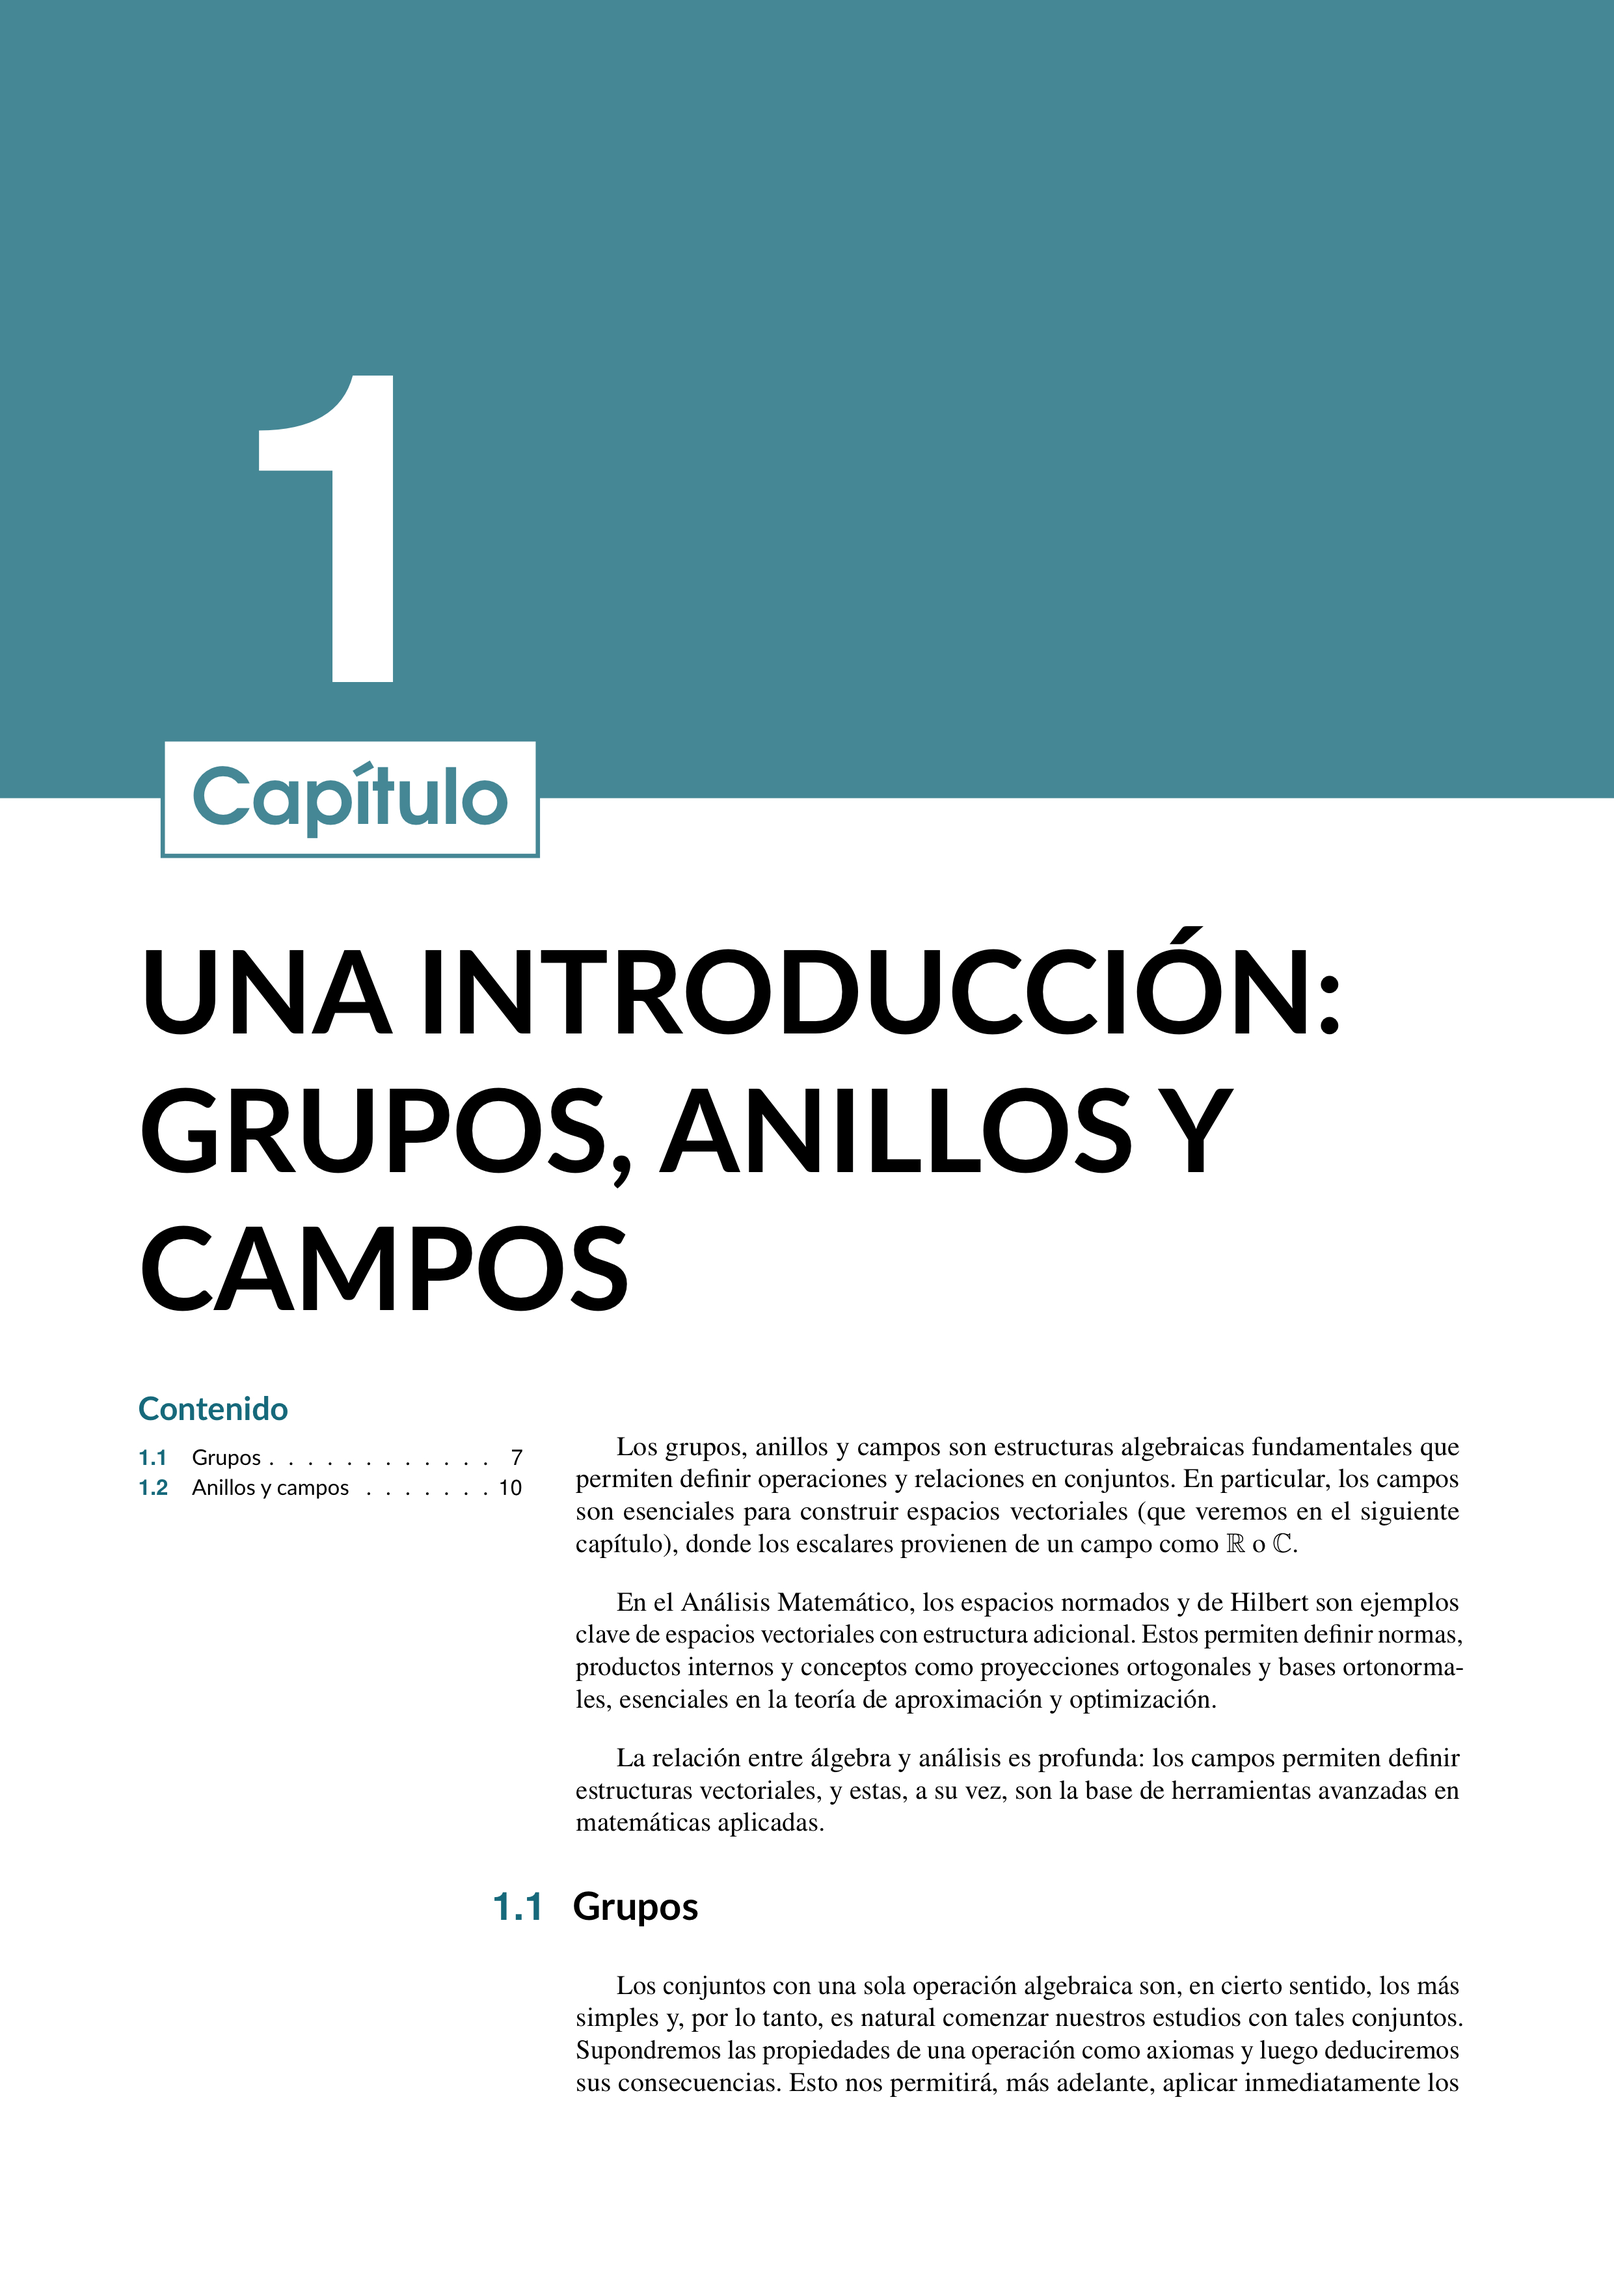
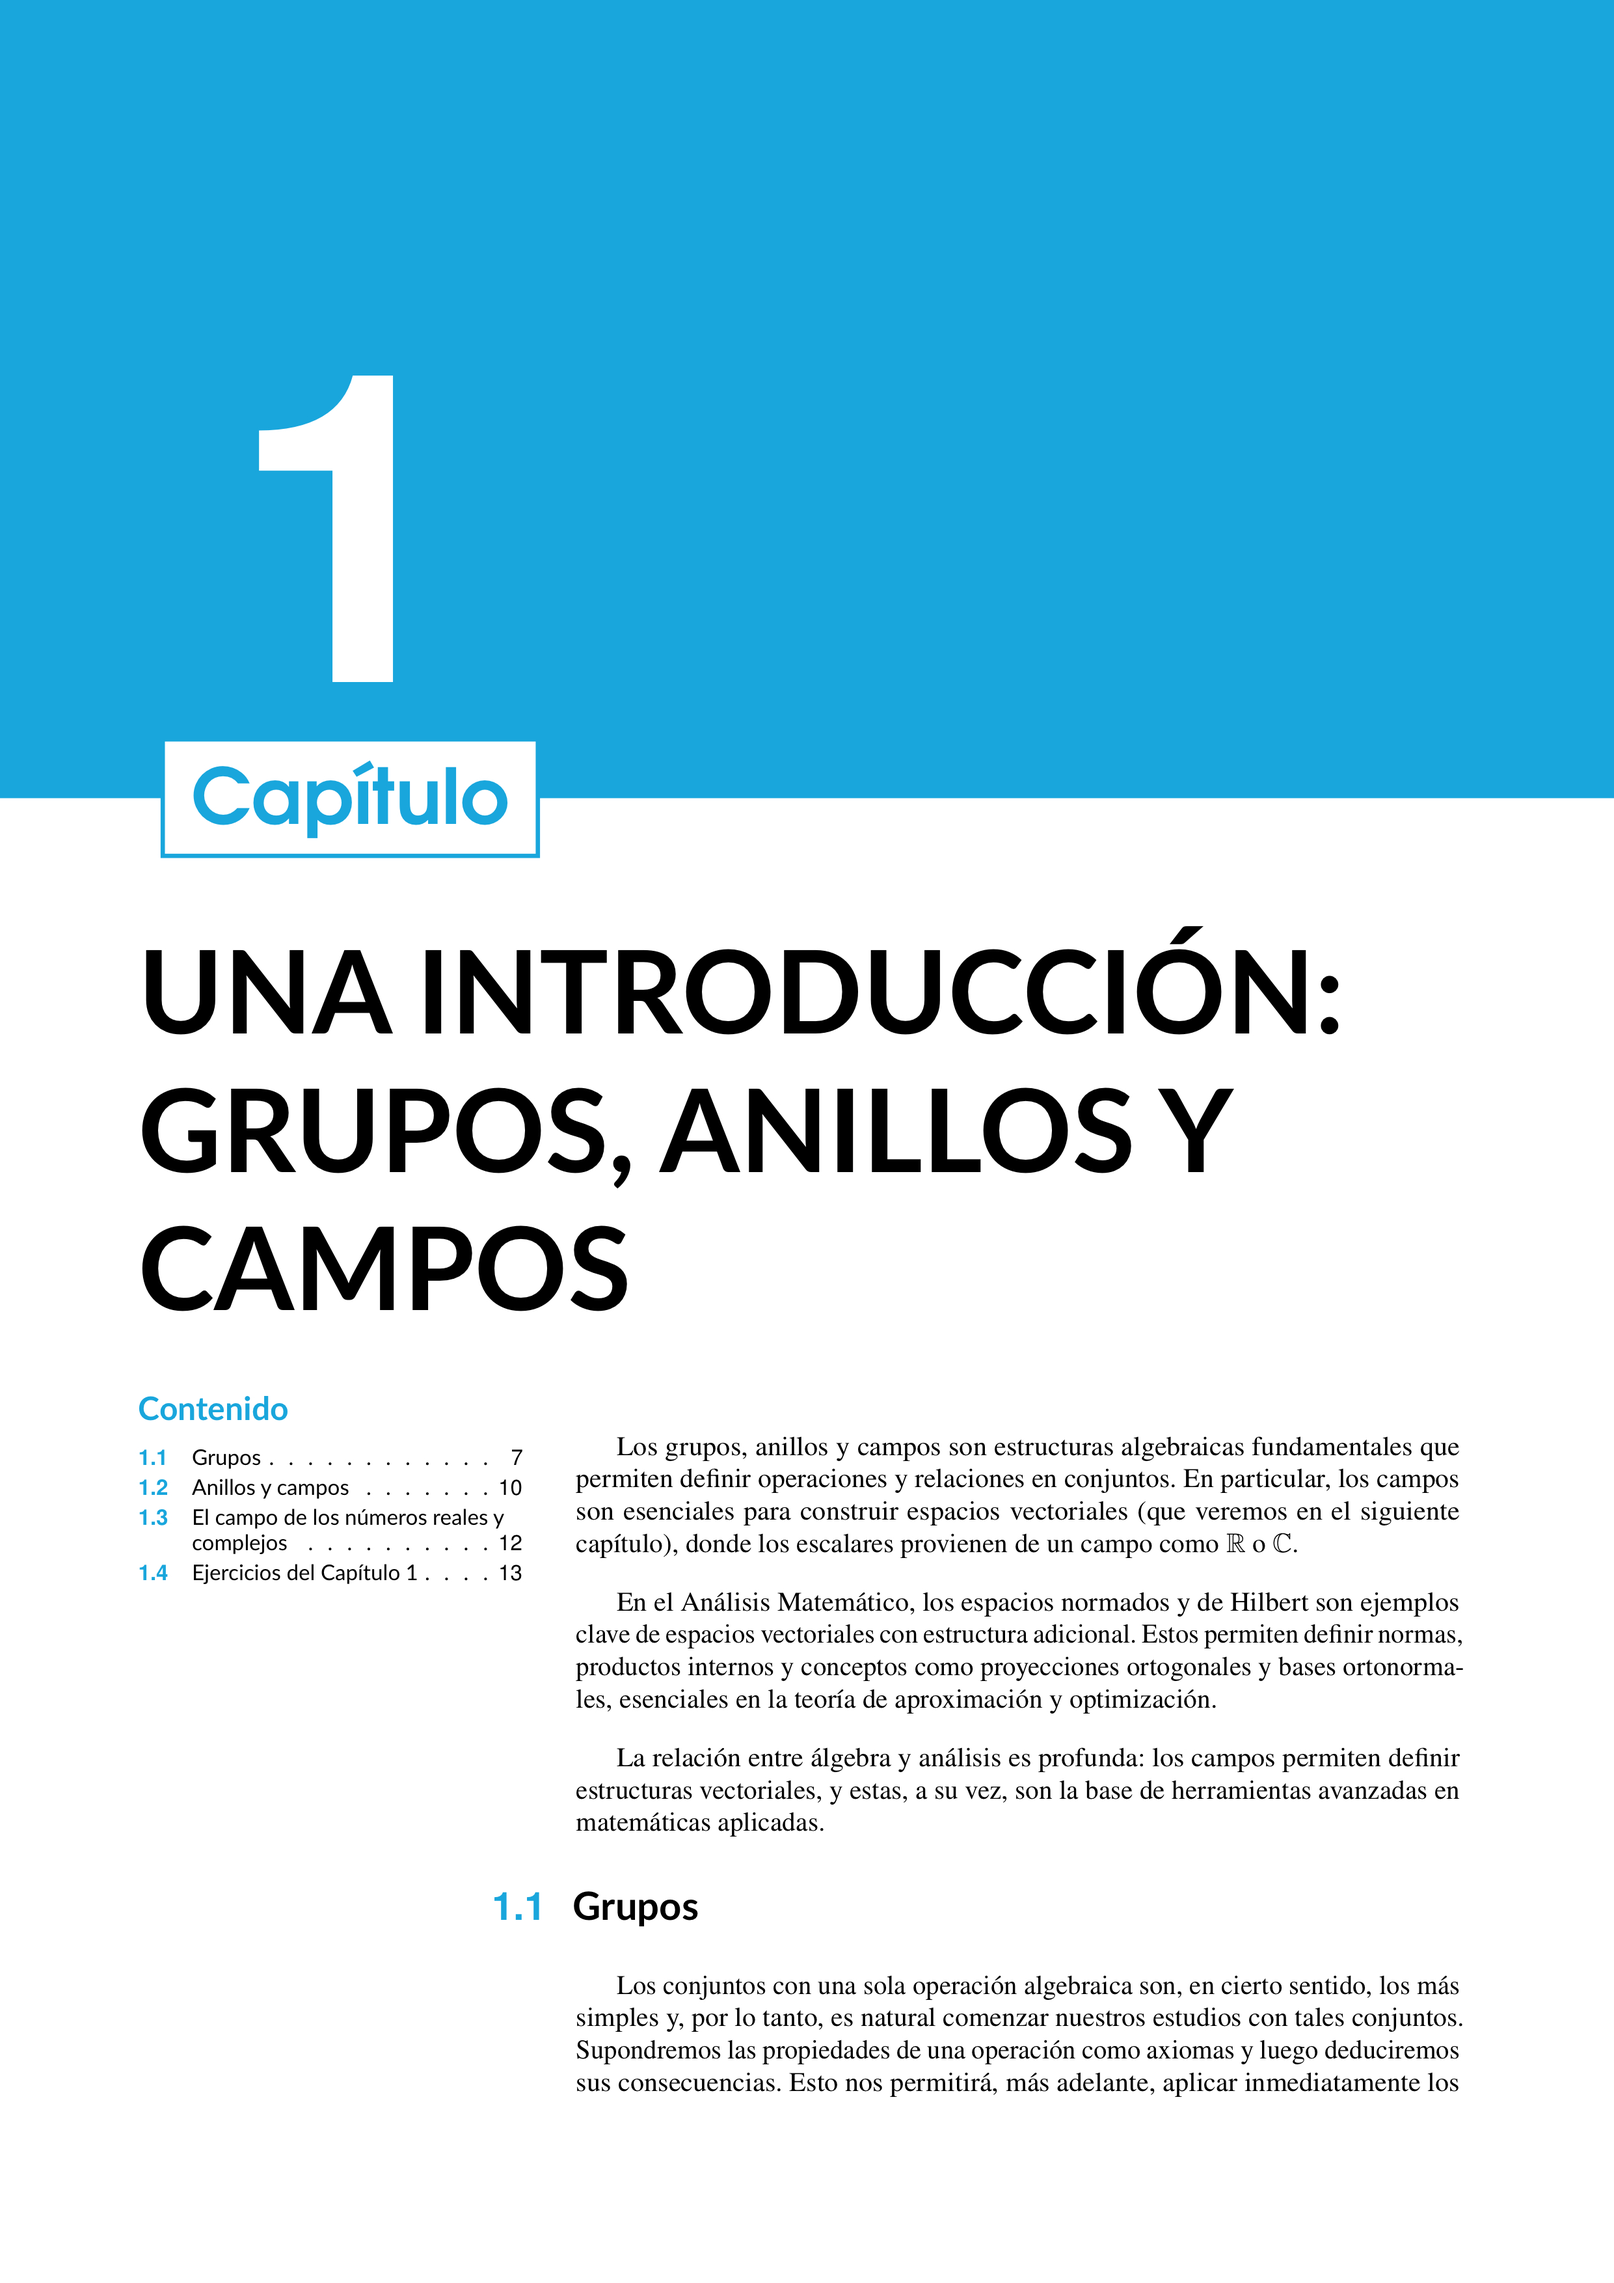
Actualización del README

diff --git a/README.md b/README.md
@@ -1,48 +1,51 @@
 # Análisis Matemático
 
-Este repositorio contiene el material y el código asociado al estudio de **Análisis Matemático**, diseñado para estudiantes de ingeniería matemática y profesionales interesados en espacios normados, espacios de Hilbert, aproximación vectorial e integración en el contexto de análisis funcional.
+Este repositorio contiene el material y el código asociado al estudio de **Análisis Matemático**, diseñado para estudiantes de ingeniería matemática y profesionales interesados en álgebra abstracta, espacios vectoriales, espacios métricos, espacios con producto interno, y métodos de optimización en el contexto de análisis funcional.
 
 ![Portada del libro 1](Images/GitHub/A1.jpeg)
 ![Portada del libro 2](Images/GitHub/A2.jpeg)
 ![Portada del libro 3](Images/GitHub/A3.jpeg)
+![Portada del libro 4](Images/GitHub/A4.jpeg)
+![Portada del libro 5](Images/GitHub/A5.jpeg)
+![Portada del libro 6](Images/GitHub/A6.jpeg)
+![Portada del libro 7](Images/GitHub/A7.jpeg)
+![Portada del libro 8](Images/GitHub/A8.jpeg)
+![Portada del libro 9](Images/GitHub/A9.jpeg)
 
 ## Contenido
 
-### Capítulo 1: Espacios Normados
-1. **Definición de norma**: Concepto y propiedades.
-2. **Ejemplos de normas**: Euclidiana, infinito y p-normas.
-3. **Equivalencia de normas**: Criterios y aplicaciones.
-4. **Subespacios y espacios normados**.
-5. **Espacios normados completos**: Espacios de Banach.
+### Capítulo 1: Grupos, Anillos y Campos
+1. **Definición de grupo**: Propiedades y ejemplos.
+2. **Anillos y campos**: Definición, propiedades y ejemplos.
+3. **El campo de los números reales y complejos**: Estructura y aplicaciones.
+4. **Ejercicios**: Ejercicios prácticos sobre grupos, anillos y campos.
 
-### Capítulo 2: Espacios de Hilbert
-1. **Definición de producto interno** y sus propiedades.
-2. **Ejemplos de productos internos**.
-3. **Teorema de proyección** en espacios de Hilbert.
-4. **Complementos ortogonales y bases ortonormales**.
-5. **Proceso de Gram-Schmidt** para ortonormalización.
+### Capítulo 2: Espacios Vectoriales
+1. **Definición de espacio vectorial**: Axiomas básicos y ejemplos.
+2. **Subespacios vectoriales**: Propiedades y aplicaciones.
+3. **Base y dimensión**: Cálculo y ejemplos.
+4. **Espacios vectoriales reales y complejos**: Definición y ejemplos.
+5. **Ejercicios**: Ejercicios prácticos sobre espacios vectoriales.
 
-### Capítulo 3: Aproximación con Métodos Vectoriales
-1. **Ecuaciones normales y matrices de Gram**.
-2. **Series de Fourier**: Definición y propiedades.
-3. **Desigualdad de Bessel** y su interpretación.
-4. **Sistemas ortonormales completos**.
-5. **Aproximación con series de Fourier**.
-6. **Problema de aproximación dual en optimización**.
-7. **Distancia mínima en conjuntos convexos**.
+### Capítulo 3: Espacios Métricos
+1. **Espacios vectoriales normados**: Definición y ejemplos.
+2. **Espacios métricos y topología básica**: Conceptos fundamentales.
+3. **Sucesiones**: Propiedades y teoremas relevantes.
+4. **Ejercicios**: Ejercicios prácticos sobre espacios métricos.
 
-### Capítulo 4: Integral de Lebesgue
-1. **Construcción de la medida de Lebesgue**.
-2. **Espacios medibles y funciones medibles**.
-3. **Integral de funciones medibles**: Definición y comparación con la integral de Riemann.
-4. **Funciones de clase \( L^2 \)** y normas asociadas.
-5. **Desigualdades de Minkowski y Hölder**.
+### Capítulo 4: Espacios con Producto Interno
+1. **Espacios con producto interno**: Definición y proyecciones.
+2. **Proyecciones ortogonales**: Cálculo y aplicaciones.
+3. **Teorema de proyección**: Teorema fundamental y aplicaciones.
+4. **Bases ortonormales**: Conceptos y técnicas de ortonormalización.
+5. **Ejercicios**: Ejercicios prácticos sobre espacios con producto interno.
 
-### Capítulo 5: Integral de Lebesgue-Stieltjes
-1. **Definición de la integral de Lebesgue-Stieltjes**.
-2. **Propiedades y aplicaciones de la integral**.
-3. **Intercambio entre integración y diferenciación**.
-4. **Diferenciación bajo el signo de integral**.
+### Capítulo 5: Optimización mediante Métodos Vectoriales
+1. **Métodos de aproximación**: Series de Fourier y aplicaciones.
+2. **Métodos de optimización**: Problemas de aproximación dual.
+3. **Distancia mínima en conjuntos convexos**: Conceptos clave y ejemplos.
+4. **Teoremas de optimización**: Aplicaciones en análisis funcional.
+5. **Ejercicios**: Ejercicios prácticos sobre métodos de optimización.
 
 ## Cómo usar
 El material está disponible en formato **LaTeX** para facilitar su consulta y estudio. Puedes clonarlo o descargarlo para compilarlo en **Overleaf** o cualquier otro editor compatible con LaTeX.
